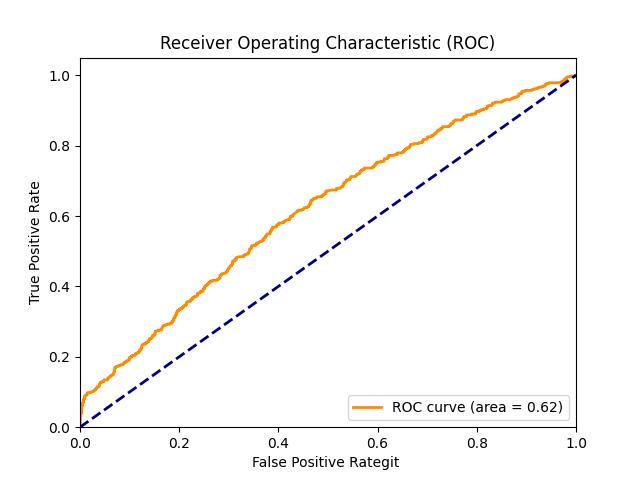
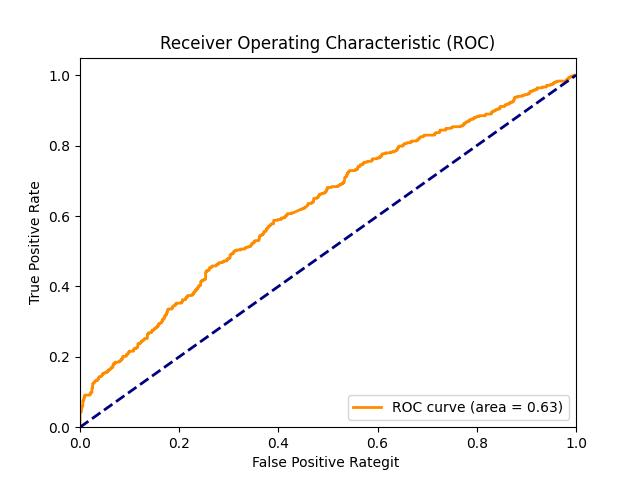
Describe your changes here

diff --git a/README.md b/README.md
@@ -3,7 +3,7 @@
 | Model                    | AUC Graph                                                    |
 | ------------------------ | ------------------------------------------------------------ |
 | Baseline Model - XGBoost | <img src="./images/baseline_result.jpg" width="400">         |
-| Imputation               | <img src="./images/imputation_result.jpg" width="400">       |
+| Imputation               | <img src="./images/imputation_tuning_result.jpg" width="400">       |
 | 2-Stage Modeling         | <img src="./images/2_stage_modeling_result.jpg" width="400"> |
 | Ensembling               | <img src="./images/ensembling.jpg" width="400">              |
 
